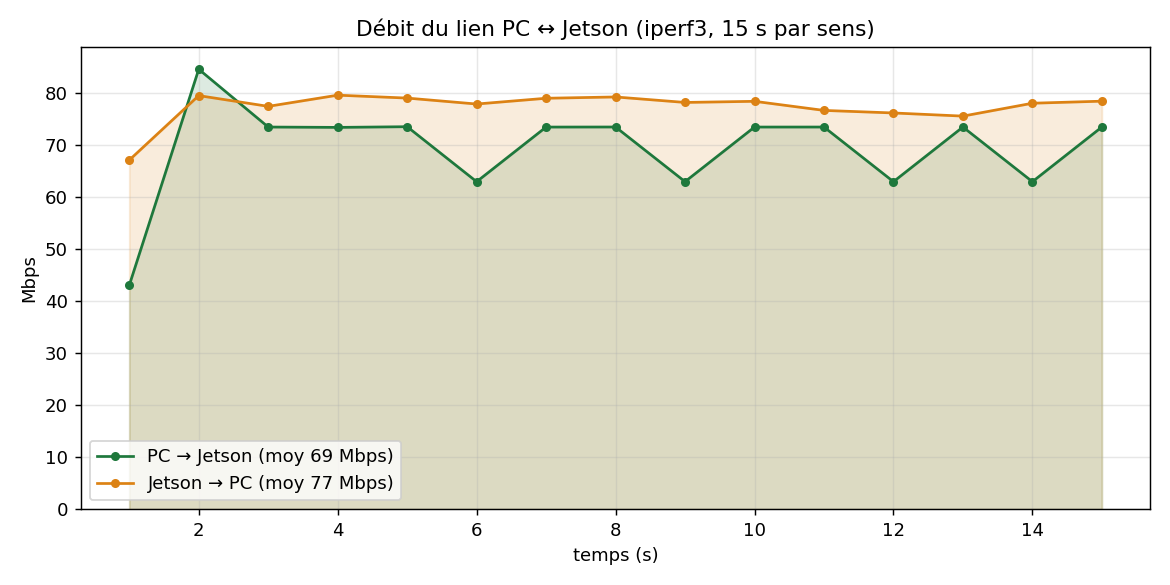
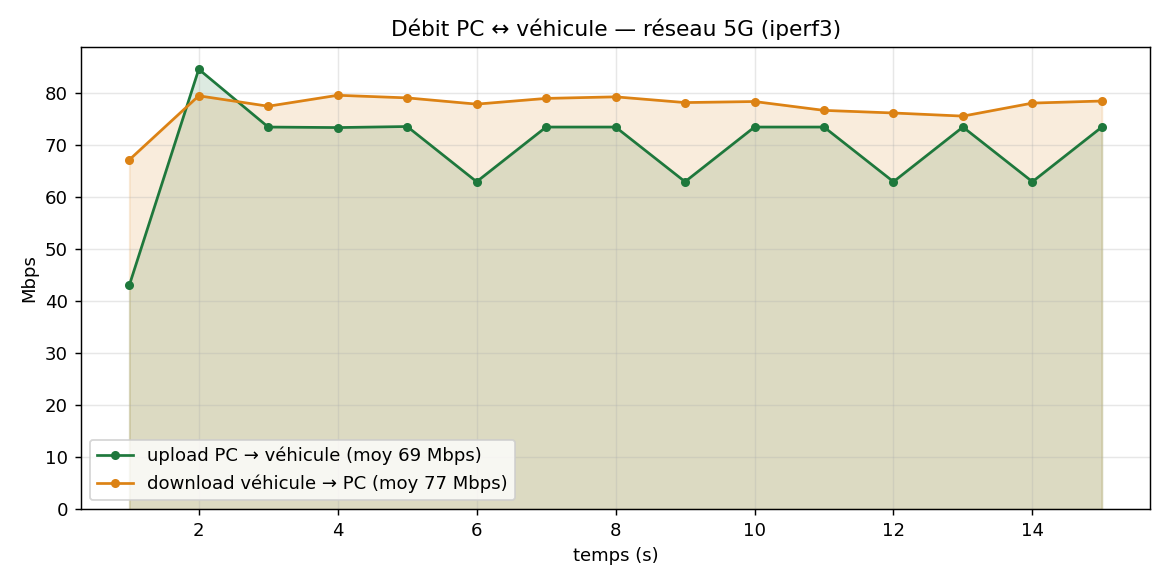
courbes: titres 'réseau WiFi'/'réseau 5G' (auto-détecté) au lieu des IP + labels upload/download

diff --git a/docs/reseau/mesure_debit.py b/docs/reseau/mesure_debit.py
@@ -15,6 +15,7 @@ import matplotlib.pyplot as plt
 
 jetson = sys.argv[1] if len(sys.argv) > 1 else "10.37.11.34"
 duree = int(sys.argv[2]) if len(sys.argv) > 2 else 20
+reseau = "5G" if jetson.startswith("172.16.48.") else ("WiFi" if jetson.startswith("10.37.") else jetson)
 
 # 1) demarrer le serveur iperf3 sur la Jetson (idempotent)
 subprocess.run(["ssh", "-o", "ConnectTimeout=8", f"protova2@{jetson}",
@@ -46,11 +47,11 @@ plt.figure(figsize=(9, 4.5))
 t1 = range(1, len(montant) + 1); t2 = range(1, len(descendant) + 1)
 plt.fill_between(t1, montant, color="#1E783C", alpha=0.15)
 plt.plot(t1, montant, color="#1E783C", marker="o", ms=4, lw=1.5,
-         label=f"PC → Jetson (moy {m1:.0f} Mbps)")
+         label=f"upload PC → véhicule (moy {m1:.0f} Mbps)")
 plt.fill_between(t2, descendant, color="#DC8214", alpha=0.15)
 plt.plot(t2, descendant, color="#DC8214", marker="o", ms=4, lw=1.5,
-         label=f"Jetson → PC (moy {m2:.0f} Mbps)")
-plt.title(f"Débit du lien PC ↔ Jetson (iperf3, {duree} s par sens)")
+         label=f"download véhicule → PC (moy {m2:.0f} Mbps)")
+plt.title(f"Débit PC ↔ véhicule — réseau {reseau} (iperf3)")
 plt.xlabel("temps (s)"); plt.ylabel("Mbps")
 plt.legend(); plt.grid(alpha=0.3); plt.ylim(bottom=0); plt.tight_layout()
 plt.savefig("courbe_debit.png", dpi=130)

diff --git a/docs/reseau/mesure_fps.py b/docs/reseau/mesure_fps.py
@@ -19,6 +19,9 @@ from rclpy.qos import qos_profile_sensor_data
 from sensor_msgs.msg import CompressedImage
 
 duree = int(sys.argv[1]) if len(sys.argv) > 1 else 60
+import os
+# zenoh = chemin 5G ; FastDDS = chemin WiFi
+reseau = "5G" if "zenoh" in os.environ.get("RMW_IMPLEMENTATION", "") else "WiFi"
 TOPIC = "/camera/color/image_raw/compressed"
 
 class Compteur(Node):
@@ -49,7 +52,7 @@ open("fps_donnees.txt", "w").write("\n".join(map(str, fps)))
 plt.figure(figsize=(9, 4.5))
 plt.plot(range(1, len(fps) + 1), fps, color="#14508C", marker=".", lw=1.2)
 plt.axhline(moy, color="#BE2828", ls="--", lw=1, label=f"moyenne {moy:.1f} FPS")
-plt.title("FPS caméra reçus via le réseau (1280×720 JPEG)")
+plt.title(f"FPS caméra — réseau {reseau} (1280×720 JPEG)")
 plt.xlabel("temps (s)"); plt.ylabel("images/s")
 plt.legend(); plt.grid(alpha=0.3); plt.ylim(0, max(fps) + 5); plt.tight_layout()
 plt.savefig("courbe_fps.png", dpi=130)

diff --git a/docs/reseau/mesure_latence.py b/docs/reseau/mesure_latence.py
@@ -14,6 +14,8 @@ import matplotlib.pyplot as plt
 
 cible = sys.argv[1] if len(sys.argv) > 1 else "10.37.11.34"
 duree = int(sys.argv[2]) if len(sys.argv) > 2 else 30
+# nom du reseau deduit de l'IP cible (pour le titre de la courbe)
+reseau = "5G" if cible.startswith("172.16.48.") else ("WiFi" if cible.startswith("10.37.") else cible)
 INTERVALLE = 0.2                      # 1 ping toutes les 0,2 s
 n = int(duree / INTERVALLE)
 
@@ -32,7 +34,7 @@ open("latence_donnees.txt", "w").write("\n".join(map(str, rtt)))
 plt.figure(figsize=(9, 4.5))
 plt.plot(temps, rtt, color="#14508C", lw=1)
 plt.axhline(moy, color="#BE2828", ls="--", lw=1, label=f"moyenne {moy:.1f} ms")
-plt.title(f"Latence réseau — ping vers {cible}")
+plt.title(f"Latence — réseau {reseau}")
 plt.xlabel("temps (s)"); plt.ylabel("RTT (ms)")
 plt.legend(); plt.grid(alpha=0.3); plt.tight_layout()
 plt.savefig("courbe_latence.png", dpi=130)
